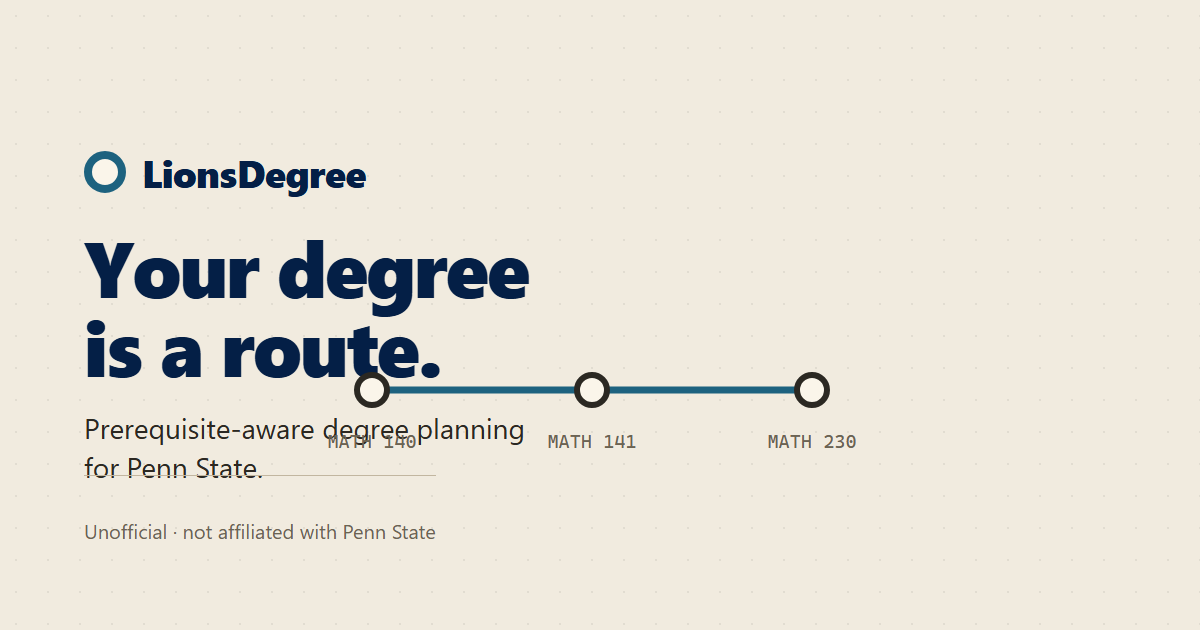
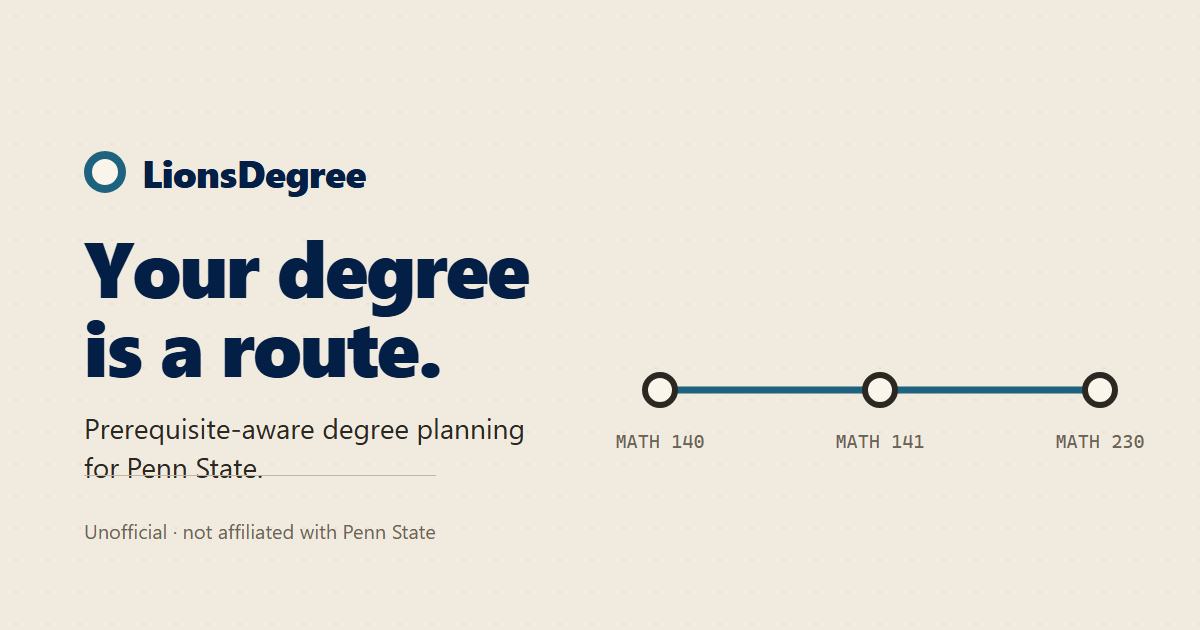
One surface, edge to edge, and the number keeps its caveats
THE SCENE AND THE PAGE SHARE A BACKGROUND. The renderer cleared to an
opaque --bg, so the scene was a flat rectangle sitting on a page that
carries dot grids and a vignette over that same colour: identical hue,
visibly different surface, and a seam where one started. Fixed by
compositing rather than by matching — `alpha: true` with
`setClearAlpha(0)`, and no background or border radius on the canvas or
the label layer. Matching two colours works until either one moves; making
them the same pixels means they cannot disagree. Fog still resolves to
--bg, because distant geometry has to fade into whatever the page is
painting behind the canvas.

THE SCENE IS THE WIDTH OF THE SCREEN. The stage was a 1180px column, which
made the journey a panel in the middle of a page rather than the page.
It is now full bleed — `width: 100%`, never `100vw`, since that includes
the scrollbar gutter and the 320-560px overflow tests catch it at once.
Readability is handled per element instead: the static diagram and the
stacked scenes keep the page's column, and a pinned scene aligns to that
same column on a wide screen while falling back to the gutter on a narrow
one. Measured 0 horizontal overflow at 320, 375, 412, 560 and 768.

Removing the panel also meant removing the previous design's copy of these
rules, which was still in the stylesheet: a second `.journey-canvas`, a
second `.journey-labels`, and a `.journey.is-live` setting `display: flex`
[…]

diff --git a/psu-planner/apps/web/src/landing.css b/psu-planner/apps/web/src/landing.css
@@ -190,49 +190,13 @@
 .btn-quiet:hover { border-color: var(--primary); color: var(--primary); }
 .btn:active { transform: scale(.98); }
 
-/* ── The journey ────────────────────────────────────────────────────────
-   The static SVG is the baseline and is styled to look finished on its own.
-   `.is-live` is added by reveal.ts only after the WebGL scene has actually
-   mounted, so a failed import leaves the static diagram exactly as it was
-   rather than hiding it behind nothing. */
-.journey { position: relative; }
-.journey-static svg { width: 100%; height: auto; overflow: visible; }
-.journey-static .route-line { fill: none; stroke: var(--primary); stroke-width: 4; stroke-linecap: round; stroke-dasharray: 1600; stroke-dashoffset: 1600; animation: route-draw 1.6s var(--ease-out) forwards; }
-.journey-static .route-branch { fill: none; stroke: var(--warning); stroke-width: 3; stroke-linecap: round; stroke-dasharray: 6 7; opacity: .85; }
-.journey-static .route-stop { opacity: 0; transform-box: fill-box; transform-origin: center; animation: stop-pop .34s var(--ease-out) forwards; animation-delay: calc(.35s + var(--i) * .11s); }
-.journey-static circle { fill: var(--bg); stroke: var(--primary); stroke-width: 4; }
-.journey-static .is-conflict circle { stroke: var(--warning); }
-.journey-static .lp-stn { fill: var(--text-muted); stroke: none; font-family: var(--font-mono); font-size: 19px; letter-spacing: .05em; text-anchor: middle; }
-.journey-static .is-conflict .lp-stn { fill: var(--warning); }
-.journey-flag { color: var(--warning); display: block; }
-
-/* Live scene. The canvas sits behind the labels and above nothing else. */
-/* The 3D replaces the DIAGRAM, never the description. `display: none` here
-   took the whole figure out — including the sentence naming the conflict —
-   so the explanation vanished for everyone the moment WebGL happened to
-   work, and the chain lost its accessible description with it. The SVG is
-   hidden from sight but kept in the accessibility tree; the verdict below
-   stays visible always. */
-.journey.is-live .journey-static {
-  position: absolute;
-  width: 1px; height: 1px;
-  overflow: hidden;
-  clip-path: inset(50%);
-  pointer-events: none;
-}
-.journey-verdict { position: relative; z-index: 3; max-width: 46ch; }
-.hero-journey .journey-verdict { margin-top: auto; }
-.journey.is-live { min-height: clamp(26rem, 68vh, 44rem); display: flex; flex-direction: column; }
-.journey-canvas { position: absolute; inset: 0; width: 100%; height: 100%; border-radius: var(--r-lg); display: block; }
-/* The hero words are excluded by NAME. Without that, this selector (0,3,0)
-   outranks `.hero-words { z-index: 3 }` (0,1,0) and pins the copy underneath
-   the legibility scrim — the h1 and the CTA render dimmed and nothing in the
-   rule that set z-index 3 looks wrong. Same shape as the `.bar-cta` collision
-   in the header. */
-.journey.is-live > :not(.journey-canvas):not(.hero-words) { position: relative; z-index: 1; }
-/* Clipped as well as bounds-checked in the loop: belt and braces, because a
-   label escaping the module reads as a page bug, not a scene one. */
-.journey-labels { position: absolute; inset: 0; pointer-events: none; z-index: 2; overflow: hidden; border-radius: var(--r-lg); }
+/* ── The journey's labels and field notes ───────────────────────────────
+   The scene's own layout lives in "THE JOURNEY IS THE PAGE" further down.
+   What was here was the previous design's copy of it — `.journey-static`,
+   `.journey-canvas`, `.journey-labels` and a `.journey.is-live` that set
+   `display: flex` against the later rule's `position: absolute; inset: 0`.
+   Two blocks describing the same elements is how one of them silently
+   stops being the one that matters. */
 .journey-label { position: absolute; transform: translateX(-50%); transition: opacity .18s linear; }
 .journey-label button {
   pointer-events: auto;
@@ -277,7 +241,6 @@
 .jd-live { position: absolute; width: 1px; height: 1px; overflow: hidden; clip-path: inset(50%); white-space: nowrap; }
 
 @media (max-width: 64rem) {
-  .journey.is-live { min-height: clamp(22rem, 60vh, 32rem); }
   .journey-label button span { display: none; }
 }
 
@@ -505,13 +468,29 @@
    `reveal.ts` ever sets.
    ===================================================================== */
 .journey-scroll { position: relative; }
+/* FULL BLEED. The stage spans the viewport so the scene is the whole width
+   of the screen rather than a panel in the middle of one — `width: 100%`
+   and not `100vw`, because 100vw includes the scrollbar gutter and the
+   overflow tests at 320-560px catch that immediately.
+   Readability is handled per-element below: the stage being edge to edge
+   must not let a heading run 1440px wide. */
 .journey-stage {
+  --gutter: clamp(1.5rem, 6vw, 4rem);
+  --measure: 1180px;
   position: relative;
-  width: min(1180px, 100% - clamp(1.5rem, 6vw, 4rem));
-  margin-inline: auto;
+  width: 100%;
   padding: clamp(2rem, 6vh, 4rem) 0;
 }
 .journey { position: relative; }
+/* Static document mode: content sits in the page's normal column. Dropped
+   entirely once the stage is pinned, where the scene owns the full width
+   and the scenes are positioned individually. */
+.journey-static,
+.journey-verdict,
+.scenes {
+  width: min(var(--measure), 100% - var(--gutter) * 2);
+  margin-inline: auto;
+}
 .journey-static svg { width: 100%; height: auto; overflow: visible; }
 .journey-static .route-line { fill: none; stroke: var(--primary); stroke-width: 4; stroke-linecap: round; stroke-dasharray: 1600; stroke-dashoffset: 1600; animation: route-draw 1.6s var(--ease-out) forwards; }
 .journey-static .route-branch { fill: none; stroke: var(--warning); stroke-width: 3; stroke-linecap: round; stroke-dasharray: 6 7; opacity: .85; }
@@ -556,17 +535,24 @@
   position: absolute; width: 1px; height: 1px;
   overflow: hidden; clip-path: inset(50%); pointer-events: none;
 }
-.journey-canvas { position: absolute; inset: 0; width: 100%; height: 100%; border-radius: var(--r-lg); display: block; }
-.journey-labels { position: absolute; inset: 0; pointer-events: none; z-index: 2; overflow: hidden; border-radius: var(--r-lg); }
+/* NO BACKGROUND and NO RADIUS on either layer. The renderer composites over
+   the page now (alpha, `setClearAlpha(0)`), so the page's dot grids and
+   vignette run straight through the scene and there is no surface change
+   where it begins. A rounded corner would reinstate exactly the panel edge
+   the transparency removes. */
+.journey-canvas { position: absolute; inset: 0; width: 100%; height: 100%; display: block; }
+.journey-labels { position: absolute; inset: 0; pointer-events: none; z-index: 2; overflow: hidden; }
 
 .is-pinned .scenes {
   position: absolute; inset: 0; z-index: 3;
-  display: block; margin: 0;
+  display: block; width: auto; margin: 0;
   pointer-events: none;
 }
 .is-pinned .scene {
   position: absolute;
-  left: clamp(0.5rem, 4vw, 3rem);
+  /* Lines up with the page's content column on a wide screen, and falls
+     back to the gutter once the viewport is narrower than the column. */
+  left: max(var(--gutter), calc((100% - var(--measure)) / 2));
   top: 50%; transform: translateY(-50%);
   opacity: 0; visibility: hidden;
   transition: opacity .35s var(--ease-out);
@@ -598,7 +584,9 @@
 
 @media (max-width: 64rem) {
   .scene { max-width: none; }
-  .is-pinned .scene { left: clamp(0.5rem, 4vw, 1.5rem); right: clamp(0.5rem, 4vw, 1.5rem); }
+  /* `right` as well as `left` here, so the scene is a box between two
+     gutters rather than a 30rem column that could reach past the edge. */
+  .is-pinned .scene { left: var(--gutter); right: var(--gutter); }
   .is-pinned .scenes::before {
     background: linear-gradient(180deg,
       color-mix(in srgb, var(--bg) 88%, transparent) 0%,

diff --git a/psu-planner/apps/web/src/landing/journey.ts b/psu-planner/apps/web/src/landing/journey.ts
@@ -64,9 +64,14 @@ export function mount(container: HTMLElement): JourneyHandle {
   const reduced = matchMedia("(prefers-reduced-motion: reduce)").matches;
 
   // ── Renderer ──────────────────────────────────────────────────────────
-  const renderer = new THREE.WebGLRenderer({ antialias: true, alpha: false, powerPreference: "high-performance" });
+  // TRANSPARENT, not matching. An opaque clear colour made the scene a flat
+  // rectangle sitting on a page that carries dot grids and a vignette over
+  // the same hue -- identical colour, visibly different surface, and a seam
+  // where one began. Matching the two would have worked until either side
+  // moved; compositing over the page means they cannot disagree.
+  const renderer = new THREE.WebGLRenderer({ antialias: true, alpha: true, powerPreference: "high-performance" });
   renderer.setPixelRatio(Math.min(devicePixelRatio, 2));
-  renderer.setClearColor(BG, 1);
+  renderer.setClearAlpha(0);
   const canvas = renderer.domElement;
   // The canvas carries no information a screen reader needs; the labels do.
   canvas.setAttribute("aria-hidden", "true");
@@ -74,6 +79,9 @@ export function mount(container: HTMLElement): JourneyHandle {
   container.insertBefore(canvas, container.firstChild);
 
   const scene = new THREE.Scene();
+  // Fog still resolves to BG even though nothing clears to it: distant
+  // geometry has to fade into the colour the PAGE is painting behind the
+  // canvas, and that colour is --bg either way.
   scene.fog = new THREE.Fog(BG, 70, 250);
   const cam = new THREE.PerspectiveCamera(52, 1, 0.1, 900);
 

diff --git a/psu-planner/apps/web/index.html b/psu-planner/apps/web/index.html
@@ -183,14 +183,18 @@
            after the journey and deliberately brief. -->
       <div class="coda">
         <section id="coverage">
-          <h2>What this isn't</h2>
-          <p>Not affiliated with Penn State. Not a substitute for your adviser.
-            It cannot see when a class actually runs — check LionPATH.
-            If a requirement cannot be verified, it says so instead of guessing.</p>
+          <h2>How the number was measured</h2>
           <!-- The headline figure never travels without its caveats. A bare
                "95%" is the kind of number that sounds like a guarantee, and
                the split below is what makes it a measurement instead. Kept
-               here rather than in the journey so the scroll stays short. -->
+               here rather than in the journey so the scroll stays short.
+
+               The "what this isn't" prose that used to open this section is
+               gone by request — the page is about the product. The limits it
+               named are not lost: the unaffiliated disclaimer is in the
+               opening scene and again in the footer, and "flagged for you
+               rather than guessed at" below is the same promise stated as a
+               measurement rather than as a caveat. -->
           <p class="note">
             Measured across %COVERAGE_PROGRAMS% programs in the
             %COVERAGE_EDITION% bulletin, not estimated.

diff --git a/psu-planner/apps/web/e2e/landing.spec.ts b/psu-planner/apps/web/e2e/landing.spec.ts
@@ -66,7 +66,12 @@ test.describe("with JavaScript turned off", () => {
     ]) {
       await expect(page.getByRole("heading", { name: heading })).toBeVisible();
     }
-    await expect(page.getByRole("heading", { name: /What this isn.t/i })).toBeVisible();
+    // The "what this isn't" section was removed by request — the page is
+    // about the product. What it carried that MATTERS is still asserted:
+    // the unaffiliated disclaimer below, and the coverage breakdown that
+    // `build-output.test.ts` scopes to `#coverage`. Its replacement heading
+    // is checked here so the section cannot quietly disappear with it.
+    await expect(page.getByRole("heading", { name: /how the number was measured/i })).toBeVisible();
   });
 
   test("the way into the planner works", async ({ page }) => {
